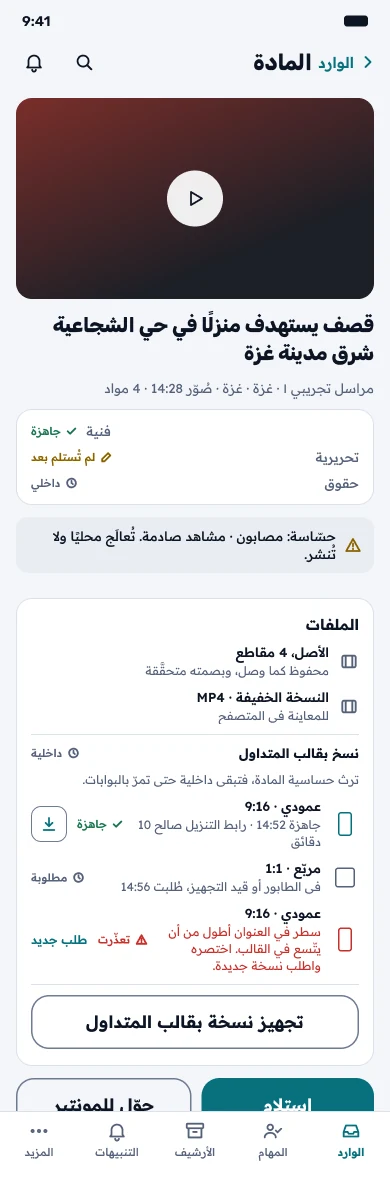
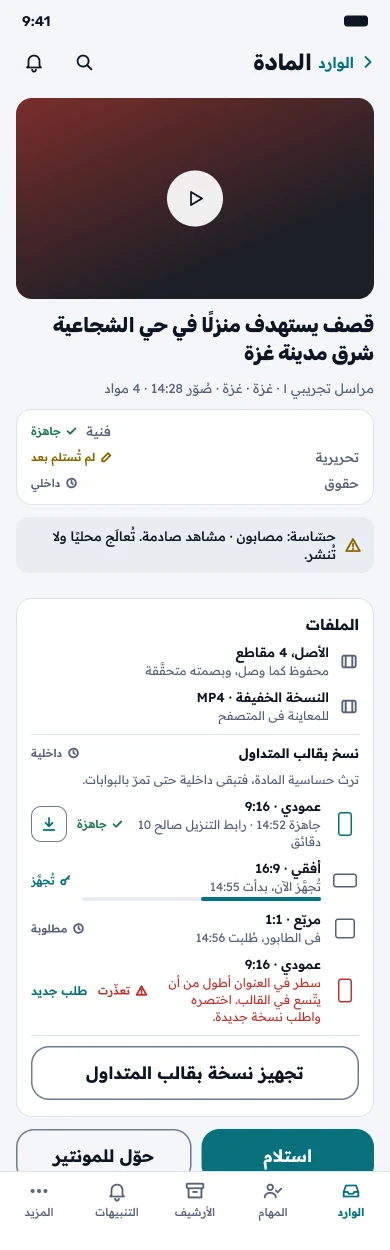
design: four copy states with rendering, per the coordinator's decision
Claude-Session: https://claude.ai/code/session_01HY7py4Kwox1KypVxZuFGKP

diff --git a/docs/design/specs/web-v2.md b/docs/design/specs/web-v2.md
@@ -146,7 +146,7 @@
 
 | الرمز | الشاشة | اللقطة |
 |---|---|---|
-| C1 | W2 وفيها بطاقة «الملفات» بالحالات الثلاث، وزرّ «تجهيز نسخة بقالب المتداول» | `c1-material-copies` |
+| C1 | W2 وفيها بطاقة «الملفات» بالحالات الأربع، وزرّ «تجهيز نسخة بقالب المتداول» | `c1-material-copies` |
 | C2 | نافذة الطلب فوق W2، والوسم لم يُختر بعد فالإرسال معطَّل | `c2-request-dialog` |
 | C3 | النافذة، داكن، و«بلا وسم» مختار | `c3-request-dialog-dark` |
 | C4 | النافذة، إنجليزية فاتحة | `c4-request-dialog-en` |
@@ -186,7 +186,8 @@
 
 | `state` | الوسم | ما يقوله الصفّ | الفعل |
 |---|---|---|---|
-| `requested` | `muted` «مطلوبة» | «في الطابور أو قيد التجهيز، طُلبت 14:56» | لا شيء |
+| `requested` | `muted` «مطلوبة» | «في الطابور، طُلبت 14:56» | لا شيء |
+| `rendering` | `brand` «تُجهَّز» | «تُجهَّز الآن، بدأت 14:55»، وشريط تقدّم يمتلئ من جهة البداية | لا شيء |
 | `ready` | `ok` «جاهزة» | «جاهزة 14:52 · رابط التنزيل صالح 10 دقائق» | «تنزيل»: يطلب `download-url` عند النقر، فلا يُخزَّن رابط في الصفحة. وإن سقطت الحقوق يردّ `409 render_not_allowed` ويقول السبب |
 | `failed` | `danger` «تعذّرت» | السبب من `failure_reason` بكلمات (الجدول أدناه) | «طلب جديد» بالمعاملات نفسها، لأن `failed` نهائية |
 
@@ -207,9 +208,8 @@
 | `422 render_location_unusable` | مفتاح المكان معطَّل: «المدينة والمحافظة أطول من 44 حرفًا. صحّح حقلي المادة، أو اطلب النسخة بلا مكان» |
 | `422` تحقّق السطر | يُمنع في الواجهة قبل الإرسال: عدّاد أحمر، و«تجهيز النسخة» معطَّل |
 
-**الأسئلة المفتوحة لـ ADR 0091:**
+**الحالات الأربع بقرار المنسّق** (2026-11-02). تُضاف `rendering` إلى العقد في #469، ويكتبها العامل حين يلتقط المهمة. **سؤال مفتوح لـ ADR 0091:**
 
-- **حالة «تُجهَّز» المستقلة:** يرى الطالب بها أن العمل بدأ. والعقد اليوم ثلاث حالات، فالإطارات تضمّها إلى «مطلوبة». إن أُضيفت `rendering` فهي صفّ رابع بشريط تقدّم يمتلئ من جهة البداية.
 - **النسبة المئوية:** غير مرسومة، لأن «%» تنقلب داخل السطر العربي في Figma. تُعرض معزولة الاتجاه (`<bdi>`) إن أعطاها العقد.
 
 **الإنجليزية:** الواجهة معكوسة كلها، ما عدا أسطر العنوان والمعاينة، فهي عربية لأن القالب عربي، ونسخته اللاتينية سؤال مفتوح في ADR 0091.
@@ -238,6 +238,7 @@
 | `derivative.template.noteSensitive` | والمادة حسّاسة، فتُجهَّز النسخة محليًا وتمرّ بالبوابات نفسها. | This material is sensitive, so the copy is prepared locally and passes the same gates. |
 | `derivative.template.submit` | تجهيز النسخة | Prepare copy |
 | `derivative.state.requested` | مطلوبة | Requested |
+| `derivative.state.rendering` | تُجهَّز | Rendering |
 | `derivative.state.ready` | جاهزة | Ready |
 | `derivative.state.failed` | تعذّرت | Failed |
 | `derivative.newRequest` | طلب جديد | New request |
